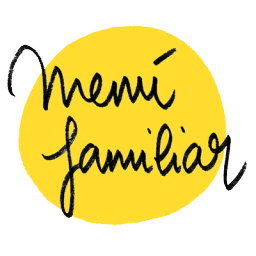
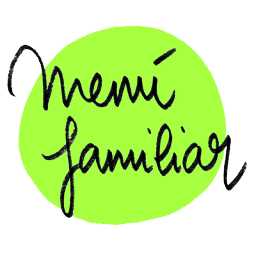
update - barra de navegación, sección calendario y más

diff --git a/src/components/nav_bar.jsx b/src/components/nav_bar.jsx
@@ -12,9 +12,6 @@ import MenuIcon from '@mui/icons-material/Menu';
 import Container from '@mui/material/Container';
 import Avatar from '@mui/material/Avatar';
 import Tooltip from '@mui/material/Tooltip';
-import MenuItem from '@mui/material/MenuItem';
-
-const settings = ['Perfil', 'Ajustes', 'Cerrar sesión'];
 
 function ResponsiveAppBar() {
   const [anchorElNav, setAnchorElNav] = React.useState(null);
@@ -36,12 +33,15 @@ function ResponsiveAppBar() {
   };
 
   return (
-    <AppBar>
+    <AppBar elevation={0} sx={{backgroundColor: '#EAFFD6'}}>
       <Container maxWidth="xl">
         <Toolbar disableGutters>
-          <img src={LogoMenu} height={100} alt='logo menu' /><br />
+          <div style={{paddingRight: '15px', paddingBottom: 0}}>
+            <img src={LogoMenu} height={100} alt='logo menu' /><br />
+          </div>
+          
           <Typography
-            variant="h6"
+            variant="h5"
             noWrap
             component="a"
             href="#app-bar-with-responsive-menu"
@@ -64,7 +64,7 @@ function ResponsiveAppBar() {
               aria-controls="menu-appbar"
               aria-haspopup="true"
               onClick={handleOpenNavMenu}
-              color="inherit"
+              color="black"
             >
               <MenuIcon />
             </IconButton>
@@ -88,44 +88,42 @@ function ResponsiveAppBar() {
             >
               <NavLink
                 className={({ isActive }) => `nav-bar__link ${isActive ? 'nav-bar__link--active' : ''}`} to='/'
-              > Inicio
-              </NavLink>
-              <NavLink
-                className={({ isActive }) => `nav-bar__link ${isActive ? 'nav-bar__link--active' : ''}`} to='/'
-              > Hoy
+                style={({ isActive }) => ({color: 'black', backgroundColor: isActive ? '#D0FFA4' : '#EAFFD6', padding: '10px 35px 15px 35px', borderRadius: '8px', textDecoration: 'none' })}
+              > INICIO
               </NavLink>
               <NavLink
                 className={({ isActive }) => `nav-bar__link ${isActive ? 'nav-bar__link--active' : ''}`} to='/calendario'
-              > Calendario
+                style={({ isActive }) => ({color: 'black', backgroundColor: isActive ? '#D0FFA4' : '#EAFFD6', padding: '10px 35px 15px 35px', borderRadius: '8px', textDecoration: 'none' })}
+              > CALENDARIO
               </NavLink>
               <NavLink
                 className={({ isActive }) => `nav-bar__link ${isActive ? 'nav-bar__link--active' : ''}`} to='/recetas'
-              > Recetas
+                style={({ isActive }) => ({color: 'black', backgroundColor: isActive ? '#D0FFA4' : '#EAFFD6', padding: '10px 35px 15px 35px', borderRadius: '8px', textDecoration: 'none' })}
+              > RECETAS
               </NavLink>
             </Menu>
           </Box>
-          <Box sx={{ flexGrow: 1, display: { xs: 'none', md: 'flex' } }}>
+          <Box sx={{ flexGrow: 1, display: { xs: 'none', md: 'flex' }, fontSize: '20px', justifyContent: 'space-around-10',  }}>
             <NavLink
               className={({ isActive }) => `nav-bar__link ${isActive ? 'nav-bar__link--active' : ''}`} to='/'
-            > Inicio
-            </NavLink>
-            <NavLink
-              className={({ isActive }) => `nav-bar__link ${isActive ? 'nav-bar__link--active' : ''}`} to='/'
-            > Hoy
+              style={({ isActive }) => ({color: 'black', backgroundColor: isActive ? '#D0FFA4' : '#EAFFD6', padding: '10px 35px 15px 35px', borderRadius: '8px', textDecoration: 'none' })}
+            > INICIO
             </NavLink>
             <NavLink
               className={({ isActive }) => `nav-bar__link ${isActive ? 'nav-bar__link--active' : ''}`} to='/calendario'
-            > Calendario
+              style={({ isActive }) => ({color: 'black', backgroundColor: isActive ? '#D0FFA4' : '#EAFFD6', padding: '10px 35px 15px 35px', borderRadius: '8px', textDecoration: 'none' })}
+            > CALENDARIO
             </NavLink>
             <NavLink
               className={({ isActive }) => `nav-bar__link ${isActive ? 'nav-bar__link--active' : ''}`} to='/recetas'
-            > Recetas
+              style={({ isActive }) => ({color: 'black', backgroundColor: isActive ? '#D0FFA4' : '#EAFFD6', padding: '10px 35px 15px 35px', borderRadius: '8px', textDecoration: 'none' })}
+            > RECETAS
             </NavLink>
           </Box>
           <Box sx={{ flexGrow: 0 }}>
             <Tooltip title="Open settings">
-              <IconButton onClick={handleOpenUserMenu} sx={{ p: 0 }}>
-                <Avatar alt="Remy Sharp" src="/static/images/avatar/2.jpg" />
+              <IconButton onClick={handleOpenUserMenu} sx={{ p: 0}}>
+                <Avatar sx={{ p: 0, backgroundColor: '#A8FF40'}}/>
               </IconButton>
             </Tooltip>
             <Menu

diff --git a/src/pages/calendar.jsx b/src/pages/calendar.jsx
@@ -4,6 +4,8 @@ import Container from '@mui/material/Container';
 import { AdapterDayjs } from '@mui/x-date-pickers/AdapterDayjs';
 import { LocalizationProvider } from '@mui/x-date-pickers/LocalizationProvider';
 import { StaticDatePicker } from '@mui/x-date-pickers/StaticDatePicker';
+import { MdBreakfastDining, MdLunchDining, MdDinnerDining } from 'react-icons/md'
+
 import comidasData from '../bd/comidas.json';
 
 
@@ -37,18 +39,30 @@ const CalendarPage = () => {
     <Container>
       <NavBar />
       <div style={{ display: 'grid', gridTemplateColumns: '1fr 1fr', gap: '20px', marginTop: '120px' }}>
-        <div>
-          <LocalizationProvider dateAdapter={AdapterDayjs}>
-            <StaticDatePicker onChange={handleDateChange} />
+        <div style={{marginRight: '30px'}}>
+          <LocalizationProvider dateAdapter={AdapterDayjs} >
+            <StaticDatePicker onChange={handleDateChange} localeText={{toolbarTitle: ''}} sx={{borderRadius: '15px', padding: '10px'}}/>
           </LocalizationProvider>
         </div>
-        <div>
-          <h2>Comidas del día</h2>
+        <div style={{marginLeft: '30px', backgroundColor: 'white', borderRadius: '15px', padding: '10px 40px 10px 40px'}}>
+          <h1 style={{display: 'flex', justifyContent: 'center'}} >Menú del día</h1>
           {selectedDate ? (
-            <div>
-              <p>Desayuno: {getDesayuno(selectedDate, comidasData)}</p>
-              <p>Almuerzo: {getAlmuerzo(selectedDate, comidasData)}</p>
-              <p>Cena: {getCena(selectedDate, comidasData)}</p>
+            <div style={{display: 'flex', flexDirection: 'column'}}>
+              <div>
+                <h2>Desayuno</h2>
+                <p>{getDesayuno(selectedDate, comidasData)}</p>
+              </div>
+              
+              <div>
+                <h2>Almuerzo</h2>
+                <p>{getAlmuerzo(selectedDate, comidasData)}</p>
+              </div>
+              
+              <div>
+                <h2>Cena</h2>
+                <p>{getCena(selectedDate, comidasData)}</p>
+              </div>
+              
             </div>
           ) : (
             <p>Seleccione una fecha en el calendario</p>

diff --git a/src/pages/receta.jsx b/src/pages/receta.jsx
@@ -47,21 +47,26 @@ export const RecetaPages = () => {
       <NavBar />
       <Container sx={"display: flex; margin-top: 150px"}>
         <div>
-          <img src={url} />
-          <h1>{getRandomOption(Desayuno)}</h1>
-          <Box
-            sx={{
-              '& > legend': { mt: 2 },
-            }}
-          >
-            <Rating
-              name="simple-controlled"
-              value={value}
-              onChange={(event, newValue) => {
-                setValue(newValue);
+          <div style={{display: 'flex', justifyContent: 'center', marginBottom: '20px'}}>
+            <img src={url}/>
+          </div>
+          <div style={{display: 'flex', flexDirection: 'row', alignItems: 'center', justifyContent: 'space-around'}}>
+            <h1>{getRandomOption(Desayuno)}</h1>
+            <Box
+              sx={{
+                '& > legend': { mt: 2 },
               }}
-            />
-          </Box>
+            >
+              <Rating
+                name="simple-controlled"
+                size="large"
+                value={value}
+                onChange={(event, newValue) => {
+                  setValue(newValue);
+                }}
+              />
+            </Box>
+          </div>
           <button
             style={{
               width: '40px',

diff --git a/src/pages/home.jsx b/src/pages/home.jsx
@@ -41,11 +41,12 @@ export const HomePage = () => {
       <NavBar />
       <Container sx={"display: flex; margin-top: 150px"}>
         <div>
-          <h1>Hola! esta es tu planificación de hoy: </h1>
+          <h1>Hola! Esta es tu planificación de hoy:</h1>
           <h2>Desayuno: {getDesayuno(buscaJson, comidasData)}</h2>
           <h2>Almuerzo: {getAlmuerzo(buscaJson, comidasData)}</h2>
           <h2>Cena: {getCena(buscaJson, comidasData)}</h2>
           <h2>{fechaFormateada}</h2>
+          <a href="/ListaCompras" class="btn btn-info" role="button">Lista de compras</a>
         </div>
       </Container>
     </Container>

diff --git a/src/components/app_router.jsx b/src/components/app_router.jsx
@@ -5,6 +5,7 @@ import HomePage from '../pages/home'
 import RecipesPage from '../pages/recipes'
 import CalendarPage from '../pages/calendar'
 import RecetaPages from '../pages/receta'
+import ShopListPage from '../pages/listaCompras'
 
 const AppRouter = () => {
   return (
@@ -14,6 +15,7 @@ const AppRouter = () => {
         <Route path='/recetas' element={<RecipesPage />} />
         <Route path='/calendario' element={<CalendarPage />} />
         <Route path='/RecetaPages' element={<RecetaPages />} />
+        <Route path='/ListaCompras' element={<ShopListPage />} />
       </Routes>
     </BrowserRouter>
   )

diff --git a/src/pages/listaCompras.jsx b/src/pages/listaCompras.jsx
@@ -1,0 +1,20 @@
+import React from 'react'
+
+import NavBar from '../components/nav_bar'
+import Container from '@mui/material/Container';
+
+export const ShopListPage = () => {
+
+  return (
+    <Container>
+      <NavBar />
+      <Container sx={"display: flex; margin-top: 150px"}>
+        <div>
+          <h1>Aquí va tu lista de compras de hoy!</h1>
+        </div>
+      </Container>
+    </Container>
+  )
+}
+
+export default ShopListPage

diff --git a/src/components/search_bar.jsx b/src/components/search_bar.jsx
@@ -6,7 +6,7 @@ import "../stylesheets/search-bar/search_bar.scss";
 export const SearchBar = () => {
   return (
     <div className="input-wrapper">
-      <FaSearch id="search-icon" />
+      <FaSearch id="search-icon" color="#B5B5B5"/>
       <input
         placeholder="Type to search..."
       />

diff --git a/src/stylesheets/search-bar/search_bar.scss b/src/stylesheets/search-bar/search_bar.scss
@@ -8,7 +8,7 @@
     background-color: white;
     display: flex;
     align-items: center;
-    margin-top: 150px;
+    margin-top: 130px;
   }
   
   input {

diff --git a/src/stylesheets/index.scss b/src/stylesheets/index.scss
@@ -4,6 +4,7 @@
 @import './nav-bar/index.scss';
 
 html, body {
+  background-color: #f9f9f9;
   padding: 0;
   margin: 0;
 }
